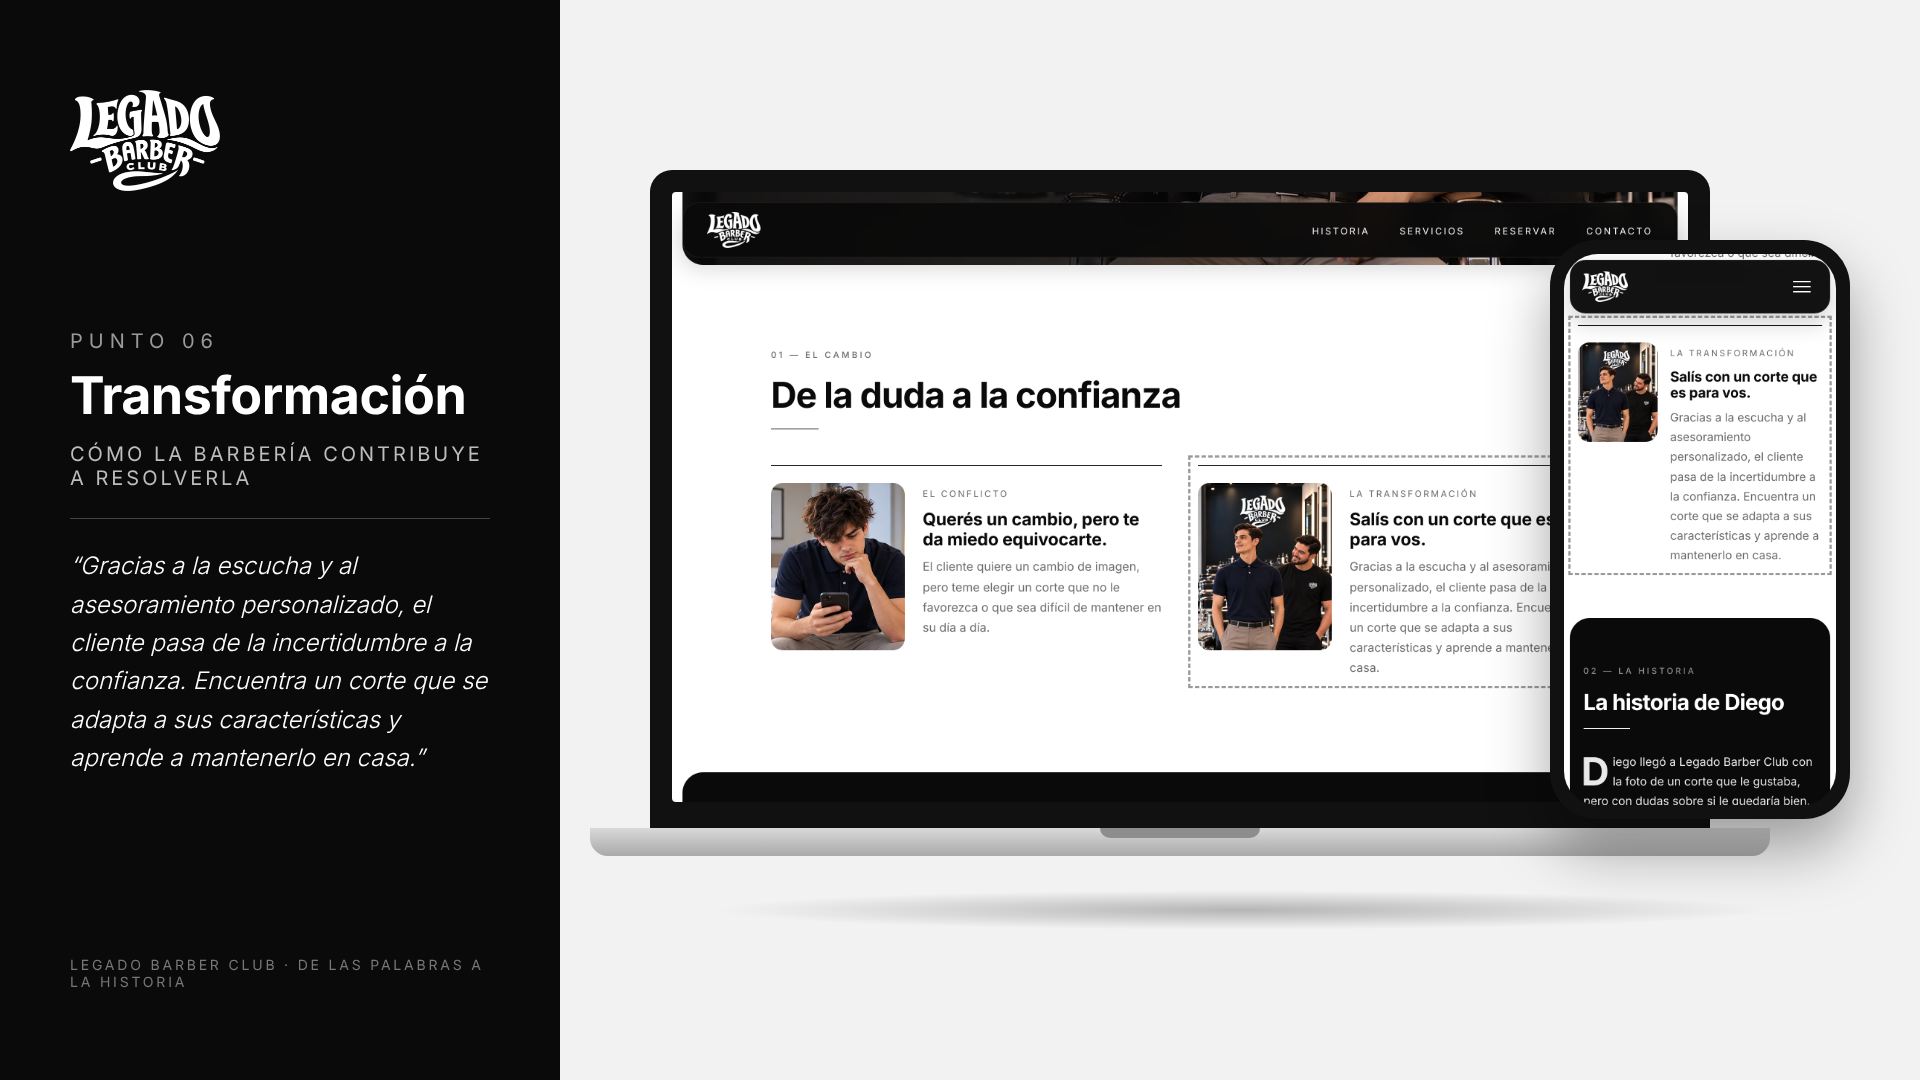
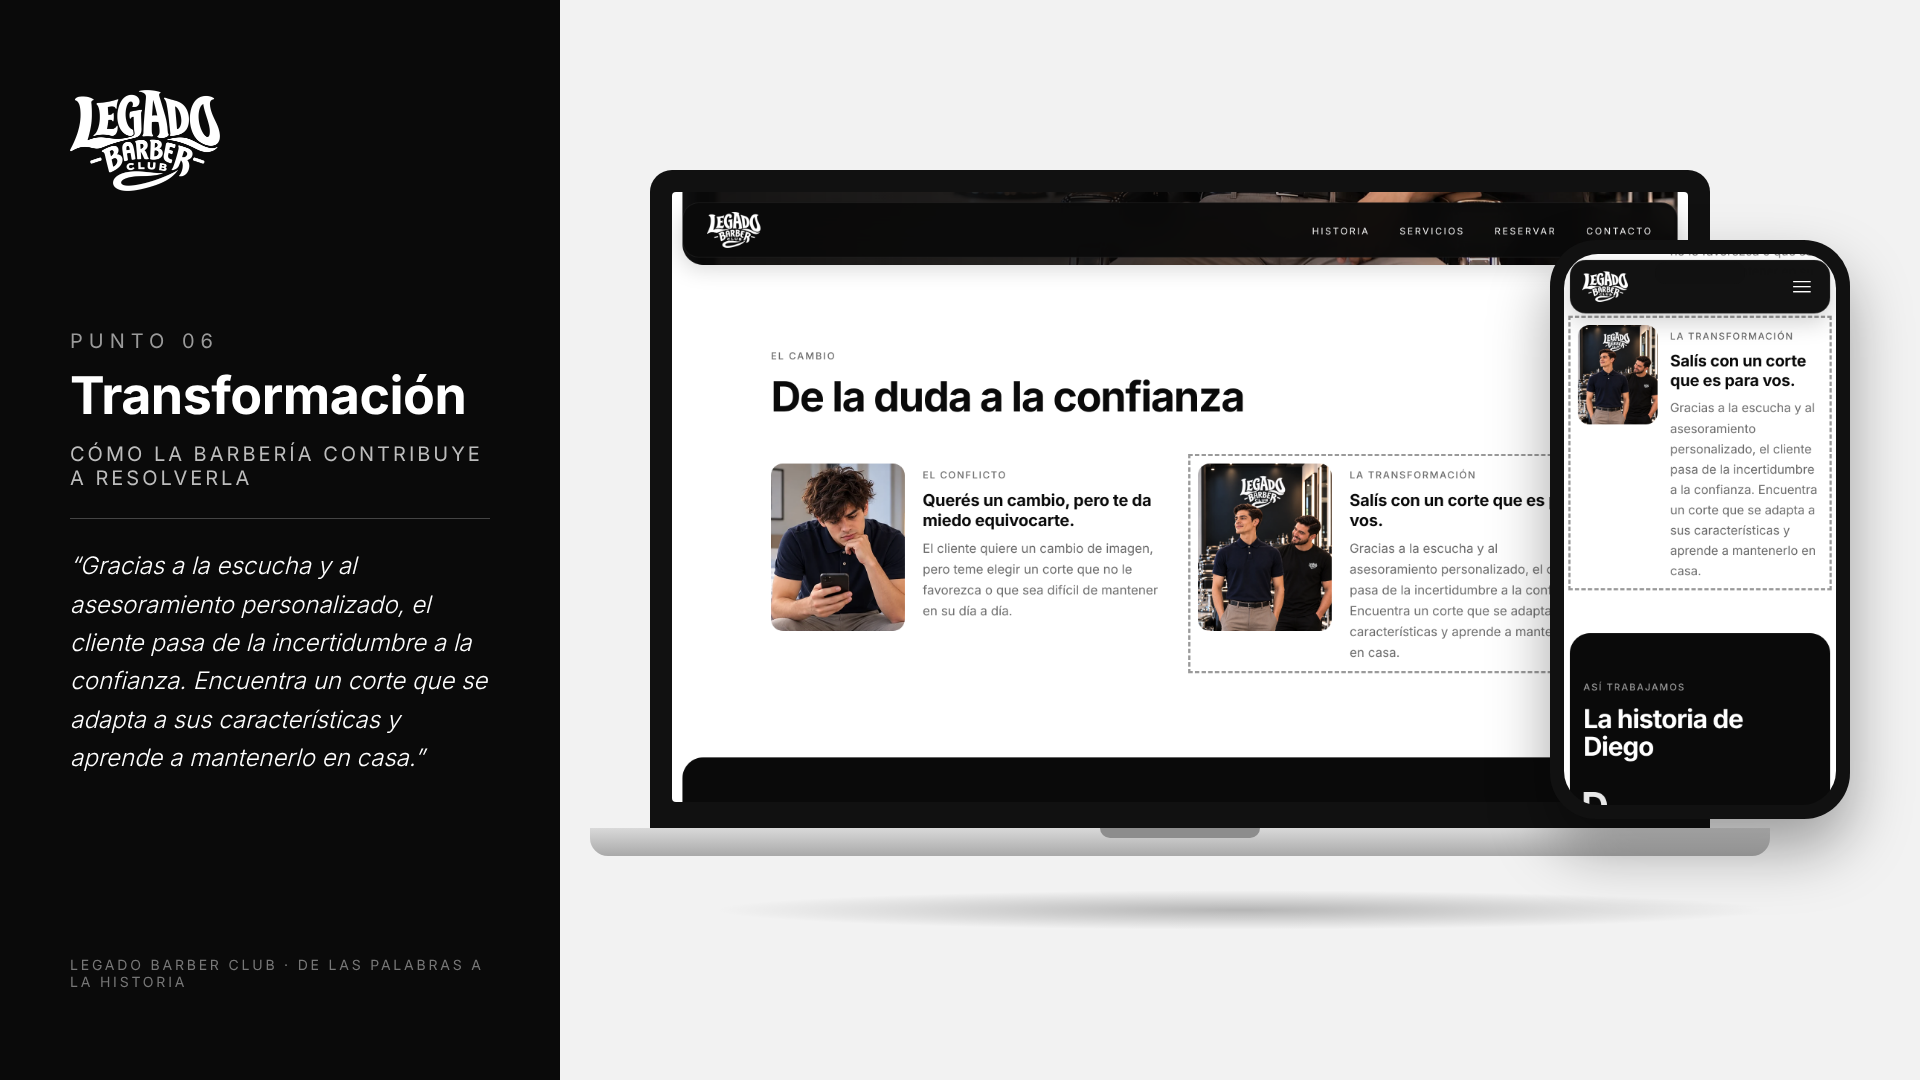
Quita líneas decorativas, jerarquía tipográfica por tamaño y peso, capitular elevada
- Sin rayitas bajo títulos ni filetes en tarjetas y contacto
- Escala: etiqueta 13px, título 36-56px, subtítulo 22px, texto 17px
- Etiquetas de sección sin numeración ni rayas largas
- La D de la historia ahora es elevada (initial-letter: 2 1)

Claude-Session: https://claude.ai/code/session_01RobnzDRJb2ZKhNGXWR7zKK

Changed region(s): [[0.3438, 0.3056, 0.9688, 0.7639], [0.375, 0.4278, 0.5938, 0.6111], [0.4062, 0.3056, 0.6562, 0.3972]]

diff --git a/styles.css b/styles.css
@@ -22,7 +22,7 @@
 html { scroll-behavior: smooth; scroll-padding-top: calc(var(--nav-alto) + 1.5rem); }
 body {
   font-family: var(--texto); font-weight: 400;
-  color: var(--negro); background: var(--blanco); line-height: 1.7;
+  color: var(--negro); background: var(--blanco); line-height: 1.65; font-size: 1.0625rem;
   overflow-x: hidden;
 }
 img { max-width: 100%; }
@@ -99,17 +99,18 @@ nav ul a:hover { border-color: var(--blanco); }
 
 /* ---------- Secciones ---------- */
 .seccion { padding: clamp(4rem, 10vw, 7rem) var(--margen); }
-.seccion h2 { font-size: clamp(1.9rem, 5vw, 3rem); letter-spacing: -.025em; }
+/* Jerarquía tipográfica: etiqueta (13px) → título de sección (36–56px) → subtítulo (22px) → texto (17px).
+   El orden lo dan el tamaño, el peso y el espacio; sin líneas decorativas */
+.seccion h2 {
+  font-size: clamp(2.25rem, 5vw, 3.5rem); line-height: 1.05; letter-spacing: -.03em;
+  margin-bottom: clamp(2.25rem, 5vw, 3.75rem);
+}
 .eyebrow {
-  display: block; margin-bottom: 1rem; font-size: .72rem; font-weight: 500;
-  letter-spacing: .28em; text-transform: uppercase; color: var(--gris);
+  display: block; margin-bottom: .9rem; font-size: .8125rem; font-weight: 500;
+  letter-spacing: .14em; text-transform: uppercase; color: var(--gris);
 }
-.oscura .eyebrow, .hero .eyebrow { color: #8f8f8f; }
-.hero .eyebrow { margin-bottom: 1.6rem; }
-.seccion h2::after {
-  content: ''; display: block; width: 64px; height: 1px;
-  background: currentColor; margin: 1.1rem 0 clamp(2rem, 5vw, 3rem);
-}
+.oscura .eyebrow, .hero .eyebrow { color: #9a9a9a; }
+.hero .eyebrow { margin-bottom: 1.4rem; }
 .oscura { background: var(--negro); color: var(--blanco); }
 .gris { background: #f4f4f4; }
 /* Bloques de color redondeados, con aire blanco alrededor */
@@ -120,29 +121,27 @@ nav ul a:hover { border-color: var(--blanco); }
   display: grid; grid-template-columns: repeat(auto-fit, minmax(min(100%, 280px), 1fr));
   gap: clamp(2rem, 5vw, 3rem); text-align: left;
 }
-.historia article { border-top: 1px solid var(--negro); padding-top: 1.4rem; }
 .caso { display: grid; grid-template-columns: 180px 1fr; gap: 1.5rem; align-items: start; }
 .caso img {
   width: 100%; height: auto; aspect-ratio: 4 / 5; object-fit: cover; object-position: 40% 20%;
   border-radius: var(--radio); display: block;
 }
-.paso { font-size: .75rem; letter-spacing: .2em; text-transform: uppercase; color: var(--gris); }
-.historia h3 { margin: .6rem 0; font-size: clamp(1.2rem, 3vw, 1.45rem); }
+.paso { font-size: .8125rem; font-weight: 500; letter-spacing: .12em; text-transform: uppercase; color: var(--gris); }
+.historia h3 { margin: .5rem 0 .6rem; font-size: 1.375rem; line-height: 1.25; letter-spacing: -.01em; }
 .historia p { color: var(--gris); }
 
 /* Historia de Diego */
 .relato { max-width: 62ch; font-size: clamp(1rem, 2.5vw, 1.12rem); }
 .relato p { margin-bottom: 1.4rem; color: var(--gris-claro); }
-/* Letra capitular de 2 líneas: arriba alineada con la altura de las mayúsculas,
-   abajo con la línea base de la segunda línea */
+/* Letra capitular elevada: se apoya en la primera línea y sobresale hacia arriba */
 .relato p:first-child::first-letter {
   font-family: var(--display); font-weight: 700;
-  float: left; font-size: 3.55em; line-height: .78; margin: .07em .12em 0 0; /* respaldo sin initial-letter */
+  font-size: 3.4em; line-height: 1; margin-right: .06em; /* respaldo sin initial-letter */
 }
-@supports (initial-letter: 2) or (-webkit-initial-letter: 2) {
+@supports (initial-letter: 2 1) or (-webkit-initial-letter: 2 1) {
   .relato p:first-child::first-letter {
-    float: none; font-size: inherit; line-height: inherit; margin: 0 .4em 0 0;
-    -webkit-initial-letter: 2; initial-letter: 2;
+    font-size: inherit; line-height: inherit; margin: 0 .08em 0 0;
+    -webkit-initial-letter: 2 1; initial-letter: 2 1;
   }
 }
 .storyboard {
@@ -170,8 +169,7 @@ nav ul a:hover { border-color: var(--blanco); }
   padding: 1.8rem 1.5rem; border: 1px solid #e2e2e2; border-radius: var(--radio); background: var(--blanco); transition: all .3s;
 }
 .tarjetas article:hover { background: var(--negro); color: var(--blanco); border-color: var(--negro); }
-.tarjetas h3 { margin-bottom: .5rem; font-size: 1.15rem; }
-.num-serv { display: block; margin-bottom: 2.2rem; font-size: .72rem; letter-spacing: .2em; color: #9a9a9a; }
+.tarjetas h3 { margin-bottom: .5rem; font-size: 1.25rem; line-height: 1.25; letter-spacing: -.01em; }
 .tarjetas p { color: var(--gris); transition: color .3s; }
 .tarjetas article:hover p { color: var(--gris-claro); }
 
@@ -180,7 +178,7 @@ nav ul a:hover { border-color: var(--blanco); }
   display: grid; grid-template-columns: 1fr 1.35fr; gap: clamp(2rem, 6vw, 5rem); align-items: start;
 }
 .reserva-info { position: sticky; top: calc(var(--nav-alto) + 2rem); }
-.reserva-info h2::after { margin-bottom: 1.5rem; }
+.reserva-info h2 { margin-bottom: 1.25rem; }
 .reserva-info > p { color: var(--gris-claro); margin-bottom: 1.8rem; }
 .beneficios { list-style: none; display: grid; gap: .9rem; }
 .reserva-foto {
@@ -266,8 +264,7 @@ input[aria-invalid] { background: var(--blanco); border-color: var(--negro); }
 
 /* Contacto: tres datos agrupados, mismo formato */
 .datos { display: grid; grid-template-columns: repeat(3, 1fr); gap: clamp(1.5rem, 4vw, 3rem); }
-.datos div { border-top: 2px solid var(--negro); padding-top: 1.1rem; }
-.datos p { font-size: 1.05rem; margin-top: .4rem; }
+.datos p { font-size: 1.375rem; font-weight: 500; letter-spacing: -.01em; margin-top: .35rem; }
 
 footer {
   margin: var(--hueco); border-radius: var(--radio-grande);

diff --git a/index.html b/index.html
@@ -8,7 +8,7 @@
   <meta name="theme-color" content="#ffffff">
   <link rel="icon" href="img/logo.jpg">
   <link rel="apple-touch-icon" href="img/logo.jpg">
-  <link rel="stylesheet" href="styles.css?v=20261022f">
+  <link rel="stylesheet" href="styles.css?v=20261022g">
 </head>
 <body>
   <header>
@@ -36,7 +36,7 @@
 
   <!-- 5. CONFLICTO y 6. TRANSFORMACIÓN -->
   <section id="cambio" class="seccion">
-    <span class="eyebrow">01 — El cambio</span>
+    <span class="eyebrow">El cambio</span>
     <h2>De la duda a la confianza</h2>
     <div class="historia">
       <article class="caso">
@@ -60,7 +60,7 @@
 
   <!-- 4. STORYTELLING -->
   <section id="historia" class="seccion oscura">
-    <span class="eyebrow">02 — La historia</span>
+    <span class="eyebrow">Así trabajamos</span>
     <h2>La historia de Diego</h2>
     <div class="relato">
       <p>Diego llegó a Legado Barber Club con la foto de un corte que le gustaba, pero con dudas sobre si le quedaría bien. Otras veces había pedido un estilo que después no podía mantener en casa.</p>
@@ -82,13 +82,13 @@
   </section>
 
   <section id="servicios" class="seccion gris">
-    <span class="eyebrow">03 — Servicios</span>
+    <span class="eyebrow">Lo que hacemos</span>
     <h2>Servicios</h2>
     <div class="tarjetas">
-      <article><span class="num-serv">01</span><h3>Corte con asesoramiento</h3><p>Analizamos tu rostro, tu cabello y tu rutina, y decidimos juntos.</p></article>
-      <article><span class="num-serv">02</span><h3>Corte clásico</h3><p>Tijera o máquina, a tu medida y con acabado impecable.</p></article>
-      <article><span class="num-serv">03</span><h3>Barba y perfilado</h3><p>Toalla caliente, navaja y aceites para una barba que impone.</p></article>
-      <article><span class="num-serv">04</span><h3>Corte + Barba</h3><p>El combo completo para salir listo para todo.</p></article>
+      <article><h3>Corte con asesoramiento</h3><p>Analizamos tu rostro, tu cabello y tu rutina, y decidimos juntos.</p></article>
+      <article><h3>Corte clásico</h3><p>Tijera o máquina, a tu medida y con acabado impecable.</p></article>
+      <article><h3>Barba y perfilado</h3><p>Toalla caliente, navaja y aceites para una barba que impone.</p></article>
+      <article><h3>Corte + Barba</h3><p>El combo completo para salir listo para todo.</p></article>
     </div>
   </section>
 
@@ -96,7 +96,7 @@
   <section id="reservar" class="seccion oscura reserva">
     <div class="reserva-grid">
       <div class="reserva-info">
-        <span class="eyebrow">04 — Reserva</span>
+        <span class="eyebrow">Reserva online</span>
         <h2>Encontrá tu corte</h2>
         <p>Elegí tu servicio y el día que te queda bien. Te confirmamos por mensaje.</p>
         <ul class="beneficios">
@@ -164,7 +164,7 @@
   </section>
 
   <section id="contacto" class="seccion gris">
-    <span class="eyebrow">05 — Contacto</span>
+    <span class="eyebrow">Contacto</span>
     <h2>Pasate por acá</h2>
     <div class="datos">
       <div><span class="paso">Dirección</span><p>Calle Principal 123</p></div>
@@ -178,6 +178,6 @@
     <p>© 2026 Legado Barber Club · Escuchamos antes de cortar<br><small>Sitio web con fines educativos</small></p>
   </footer>
 
-  <script src="script.js?v=20261022f"></script>
+  <script src="script.js?v=20261022g"></script>
 </body>
 </html>
